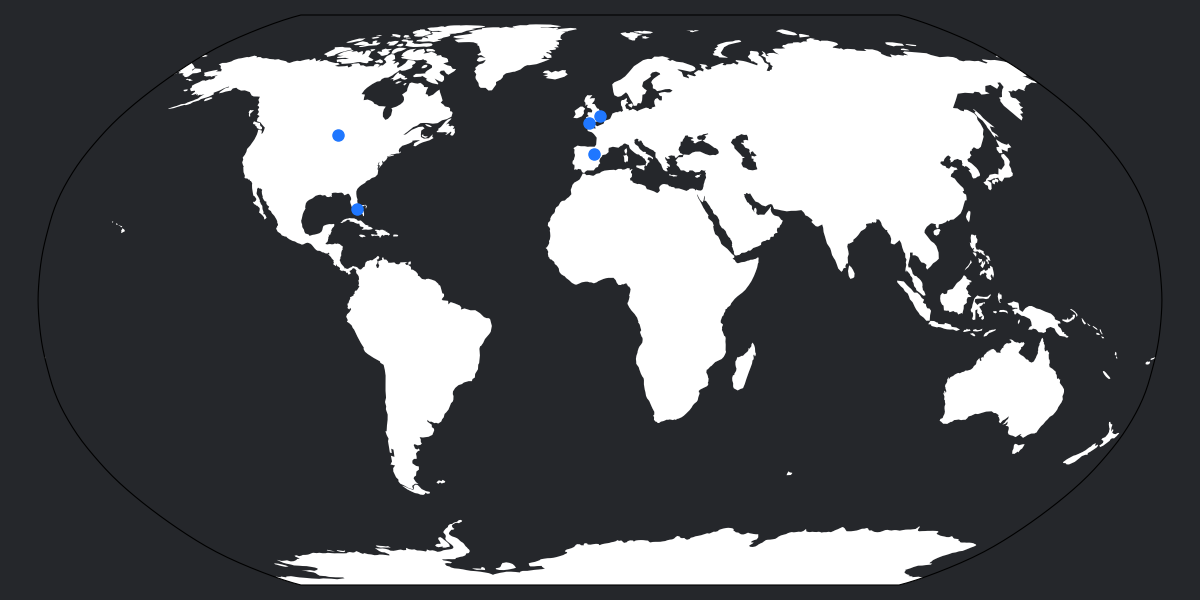
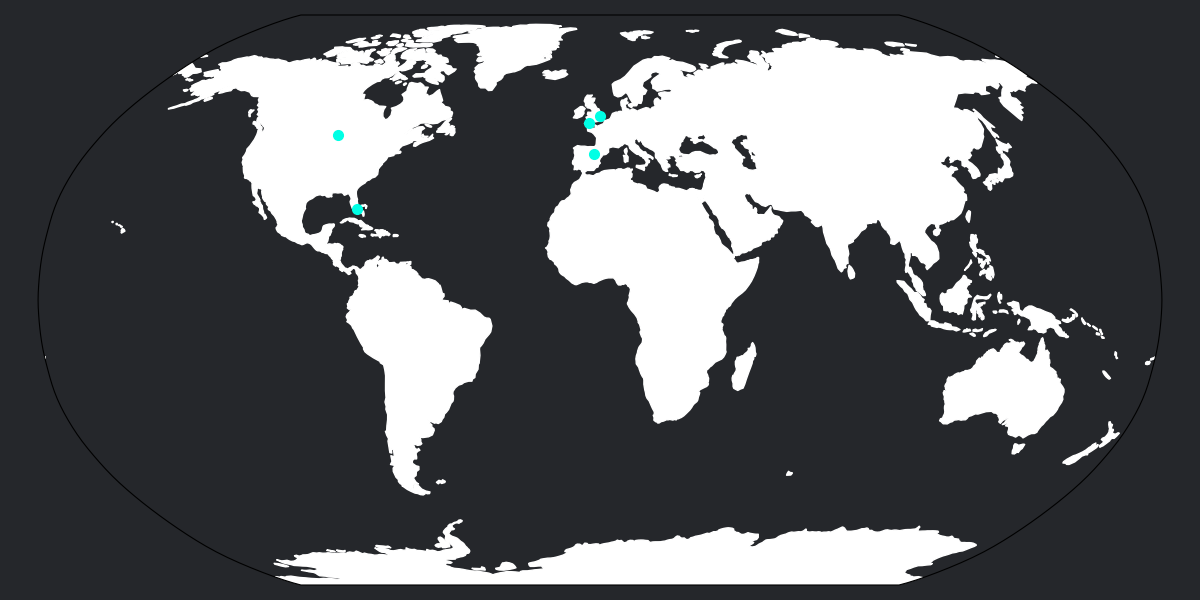
Modify work map

diff --git a/src/assest-creation/map-working.py b/src/assest-creation/map-working.py
@@ -25,7 +25,7 @@ ax.set_facecolor("none")
 # Draw map (white land)
 # ---------------------------
 ax.add_feature(cfeature.LAND, facecolor="white", edgecolor="white")
-ax.add_feature(cfeature.OCEAN, facecolor="#25272b")
+ax.add_feature(cfeature.OCEAN, facecolor="none")
 
 # Remove borders/gridlines for cleaner look
 ax.set_global()
@@ -37,9 +37,9 @@ for name, (lon, lat) in locations.items():
     ax.plot(
         lon, lat,
         marker='o',
-        markersize=8,
-        markeredgecolor='#1f77ff',
-        markerfacecolor='#1f77ff',
+        markersize=7,
+        markeredgecolor='#00ffe5',
+        markerfacecolor='#00ffe5',
         transform=ccrs.PlateCarree()
     )
 